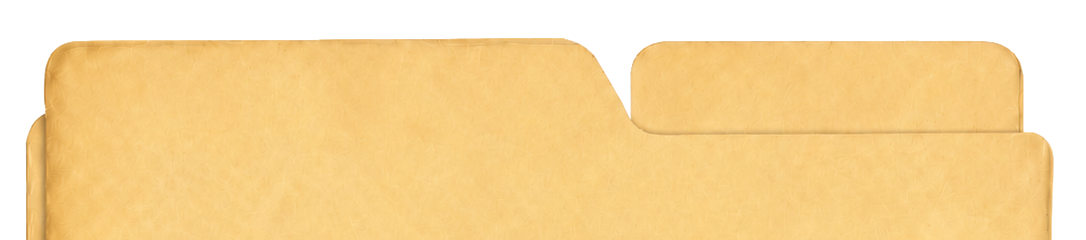
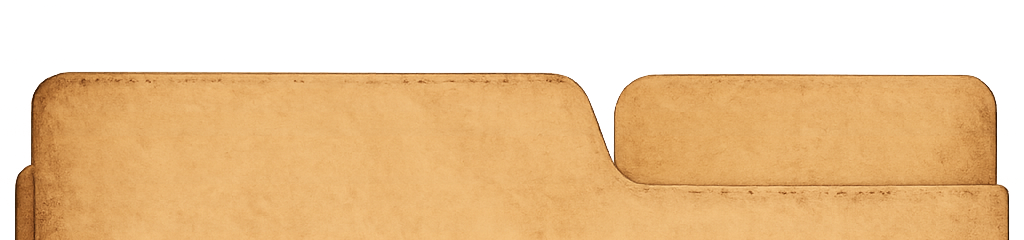
landing1012: use vintage folder (real-alpha aged parchment)

diff --git a/app/landing1012/landing1012.css b/app/landing1012/landing1012.css
@@ -37,9 +37,9 @@
 
 /* Outer folder frame (govland): tab top, stretched middle, fixed bottom. */
 .og-folder { position: absolute; inset: 0; z-index: 0; display: flex; flex-direction: column; pointer-events: none; }
-.og-folder-top { width: 100%; aspect-ratio: 1086 / 240; background: url('/gl-top.webp') no-repeat; background-size: 100% 100%; }
+.og-folder-top { width: 100%; aspect-ratio: 1024 / 240; background: url('/gl-top.webp') no-repeat; background-size: 100% 100%; }
 .og-folder-mid { flex: 1 1 auto; background: url('/gl-mid.webp') no-repeat; background-size: 100% 100%; }
-.og-folder-bottom { width: 100%; aspect-ratio: 1086 / 210; background: url('/gl-bottom.webp') no-repeat; background-size: 100% 100%; margin-top: -1px; }
+.og-folder-bottom { width: 100%; aspect-ratio: 1024 / 210; background: url('/gl-bottom.webp') no-repeat; background-size: 100% 100%; margin-top: -1px; }
 
 /* Paper sheet placed inside the folder, below the nav; the articles sit on it. */
 .og-paper { position: relative; margin-top: 16px; filter: drop-shadow(0 6px 16px rgba(0, 0, 0, 0.28)); }
